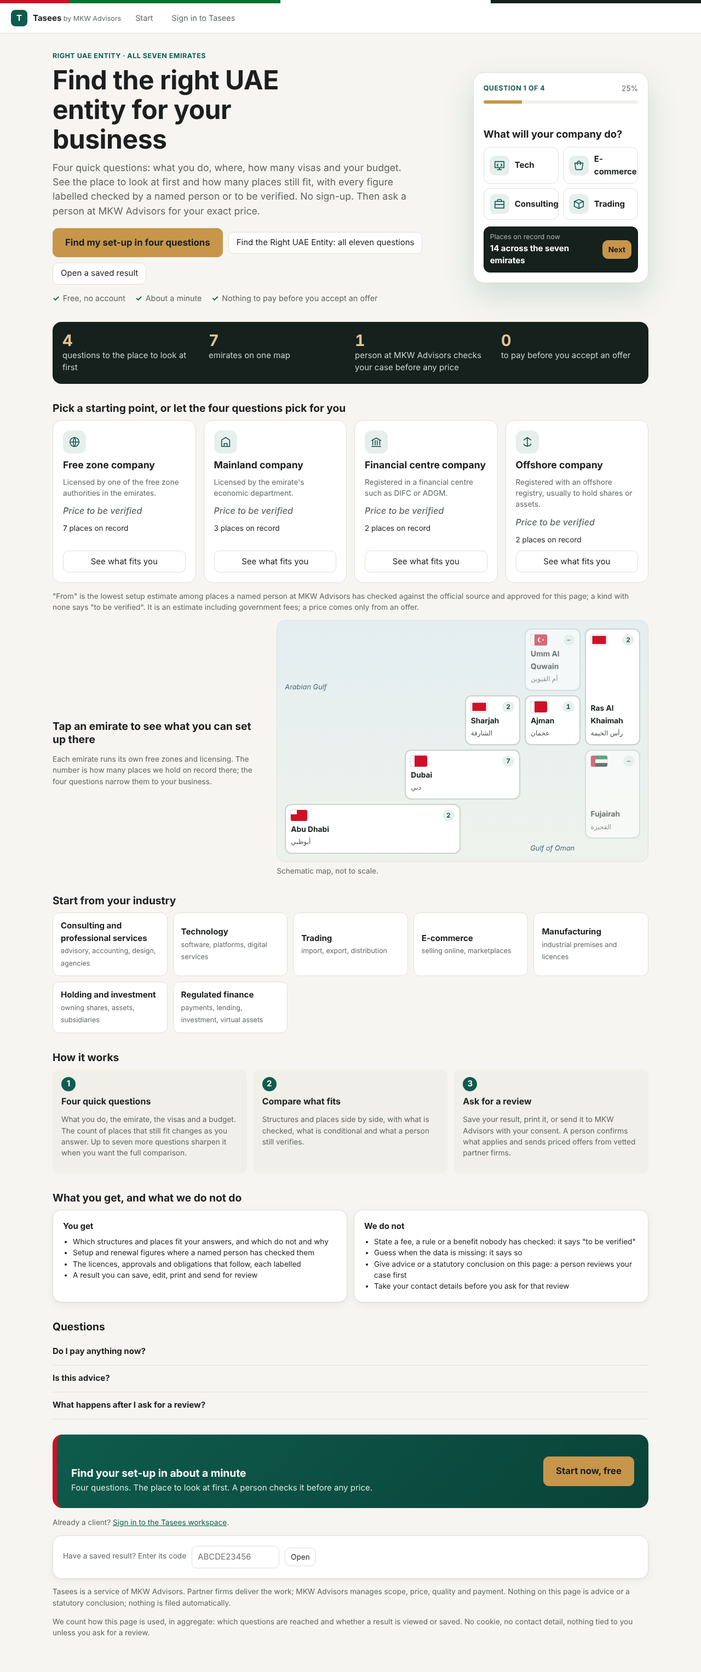
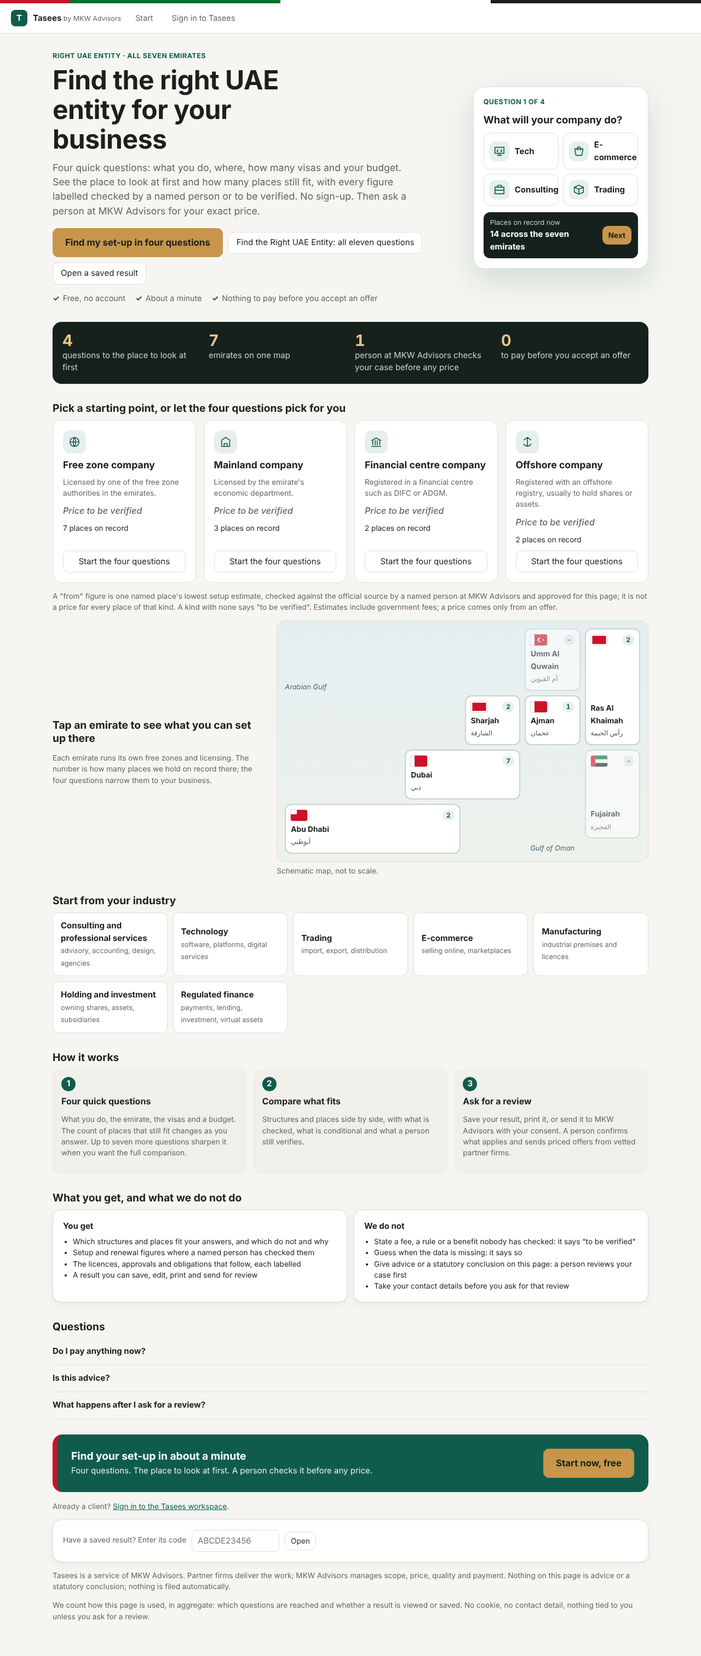
E11 review fixes: the from figure names its place and is labelled preliminary, counts are places on record, tile names match their text, Arabic, focus, tokens, priced offers wording, tests
Claude-Session: https://claude.ai/code/session_01QzEGiu7q2Qy5LpHAKh2X9v

diff --git a/apps/web/public/selector.html b/apps/web/public/selector.html
@@ -169,15 +169,14 @@
     .ticks li::before { content: "✓"; color: var(--ok); font-weight: 700; margin-inline-end: 6px; }
     .hero-try { flex: 1 1 320px; min-width: 0; margin: 0; padding: 18px; border-radius: 20px; box-shadow: 0 22px 56px rgba(14, 91, 76, 0.16); display: flex; flex-direction: column; gap: 12px; }
     .hero-try h2 { margin: 0; font-size: 1.15rem; }
-    .meter-l { height: 6px; border-radius: 999px; background: var(--surface-2); overflow: hidden; } .meter-l i { display: block; width: 25%; height: 100%; background: #c8964a; }
     .try-tiles { display: grid; grid-template-columns: repeat(2, minmax(0, 1fr)); gap: 8px; }
     .try { display: flex; align-items: center; gap: 10px; padding: 10px; border: 1.5px solid var(--line); border-radius: 12px; background: var(--surface); font: inherit; color: var(--text); cursor: pointer; text-align: start; min-height: 52px; }
     .try:hover { border-color: var(--brand); }
     .try .ico { width: 36px; height: 36px; border-radius: 10px; display: grid; place-items: center; background: var(--brand-soft); color: var(--brand); flex: none; }
-    .try-foot { display: flex; justify-content: space-between; align-items: center; gap: 10px; padding: 10px 12px; border-radius: 12px; background: #16201c; color: #fff; }
-    .try-foot small { display: block; color: #a9b6af; } .try-foot b { color: #fff; }
-    .strip { list-style: none; margin: 8px 0 28px; padding: 18px; display: grid; grid-template-columns: repeat(auto-fit, minmax(190px, 1fr)); gap: 8px 16px; border-radius: 16px; background: #16201c; color: #c9d3ce; }
-    .strip li { display: flex; flex-direction: column; } .strip b { font-size: 1.8rem; color: #e3c38f; font-variant-numeric: tabular-nums; line-height: 1.1; }
+    .try-foot { display: flex; justify-content: space-between; align-items: center; gap: 10px; padding: 10px 12px; border-radius: 12px; background: var(--ink-panel); color: var(--ink-panel-text); }
+    .try-foot small { display: block; color: var(--ink-panel-muted); } .try-foot b { color: var(--ink-panel-text); }
+    .strip { list-style: none; margin: 8px 0 28px; padding: 18px; display: grid; grid-template-columns: repeat(auto-fit, minmax(190px, 1fr)); gap: 8px 16px; border-radius: 16px; background: var(--ink-panel); color: var(--ink-panel-muted); }
+    .strip li { display: flex; flex-direction: column; } .strip b { font-size: 1.8rem; color: var(--gold-text); font-variant-numeric: tabular-nums; line-height: 1.1; }
     .packages { display: grid; grid-template-columns: repeat(auto-fit, minmax(230px, 1fr)); gap: 14px; }
     .pkg { display: flex; flex-direction: column; gap: 10px; padding: 18px; border: 1px solid var(--line); border-radius: 16px; background: var(--surface); }
     .pkg .ico { width: 42px; height: 42px; border-radius: 12px; display: grid; place-items: center; background: var(--brand-soft); color: var(--brand); }
@@ -189,10 +188,10 @@
     .home-map-copy { flex: 1 1 260px; min-width: 0; } .home-map { flex: 2 1 420px; min-width: 0; }
     .faq details { border-bottom: 1px solid var(--line); } .faq summary { cursor: pointer; min-height: 48px; display: flex; align-items: center; font-weight: 650; }
     .faq p { margin: 0 0 14px; color: var(--muted); }
-    .cta-band { margin: 28px 0 8px; padding: 26px; border-radius: 18px; display: flex; flex-wrap: wrap; gap: 16px; justify-content: space-between; align-items: center; background: linear-gradient(135deg, #0e5b4c, #0a4338); color: #fff; border-inline-start: 8px solid #ce1126; }
-    .cta-band h2 { margin: 0 0 4px; color: #fff; } .cta-band p { margin: 0; color: #d7e8e2; }
+    .cta-band { margin: 28px 0 8px; padding: 26px; border-radius: 18px; display: flex; flex-wrap: wrap; gap: 16px; justify-content: space-between; align-items: center; background: var(--brand); color: var(--brand-ink); border-inline-start: 8px solid #ce1126; }
+    .cta-band h2 { margin: 0 0 4px; color: inherit; } .cta-band p { margin: 0; color: inherit; opacity: 0.9; }
     .cta-band .gold { padding: 13px 22px; font-size: 1.05rem; }
-    .selector.wide .landing h2 { margin-top: 32px; }
+    .selector.wide .landing > h2 { margin-top: 32px; }
     @media print {
       .top, .noprint, form, .landing, .quick, .flagbar { display: none !important; }
       body { background: #fff; }
@@ -222,13 +221,12 @@
           </div>
           <ul class="ticks"><li>Free, no account</li><li>About a minute</li><li>Nothing to pay before you accept an offer</li></ul>
         </div>
-        <div class="card hero-try" aria-labelledby="try-h">
-          <div class="row between"><p class="eyebrow" style="margin:0">Question 1 of 4</p><span class="small muted">25%</span></div>
-          <div class="meter-l" aria-hidden="true"><i></i></div>
+        <section class="card hero-try" aria-labelledby="try-h">
+          <p class="eyebrow" style="margin:0">Question 1 of 4</p>
           <h2 id="try-h">What will your company do?</h2>
           <div class="try-tiles" id="try-tiles" role="group" aria-labelledby="try-h"></div>
           <div class="try-foot"><span><small>Places on record now</small><b id="home-count">…</b></span><button type="button" class="gold sm" id="try-next">Next</button></div>
-        </div>
+        </section>
       </div>
       <ul class="strip" aria-label="What the four questions give you">
         <li><b>4</b><span>questions to the place to look at first</span></li>
@@ -238,7 +236,7 @@
       </ul>
       <h2>Pick a starting point, or let the four questions pick for you</h2>
       <div class="packages" id="packages"></div>
-      <p class="small muted">"From" is the lowest setup estimate among places a named person at MKW Advisors has checked against the official source and approved for this page; a kind with none says "to be verified". It is an estimate including government fees; a price comes only from an offer.</p>
+      <p class="small muted" id="from-note">A "from" figure is one named place's lowest setup estimate, checked against the official source by a named person at MKW Advisors and approved for this page; it is not a price for every place of that kind. A kind with none says "to be verified". Estimates include government fees; a price comes only from an offer.</p>
       <div class="home-map-row">
         <div class="home-map-copy">
           <h2>Tap an emirate to see what you can set up there</h2>
@@ -271,7 +269,7 @@
       <div class="faq">
         <details><summary>Do I pay anything now?</summary><p>No. The four questions and the comparison are free. You pay a deposit only after you accept an offer from MKW Advisors.</p></details>
         <details><summary>Is this advice?</summary><p>No. It is preliminary, general information from your answers. A person at MKW Advisors reviews your case before anything is priced or filed.</p></details>
-        <details><summary>What happens after I ask for a review?</summary><p>A person checks your answers against the current rules and figures and sends priced offers from vetted partner firms. A reply usually comes within one working day.</p></details>
+        <details><summary>What happens after I ask for a review?</summary><p>A person checks your answers against the current rules and figures and sends priced offers from MKW Advisors, delivered by vetted partner firms. A reply usually comes within one working day.</p></details>
       </div>
       <div class="cta-band"><div><h2>Find your set-up in about a minute</h2><p>Four questions. The place to look at first. A person checks it before any price.</p></div><button type="button" class="gold" id="cta-start">Start now, free</button></div>
       <p class="small muted" style="margin-top:16px">Already a client? <a href="/">Sign in to the Tasees workspace</a>.</p>

diff --git a/apps/web/public/selector.js b/apps/web/public/selector.js
@@ -420,25 +420,28 @@ const PACKAGES = [
   ["offshore", "Offshore company", "Registered with an offshore registry, usually to hold shares or assets.", "M12 3v18M5 8l7-5 7 5M5 16a7 4 0 0 0 14 0"],
 ];
 async function renderHome() {
-  $("try-tiles").innerHTML = HOME_TRY.map(([id, label]) => `<button type="button" class="try" data-try="${id}" aria-label="${esc(activityLabel(id))}"><span class="ico">${icon(id)}</span><b>${esc(label)}</b></button>`).join("");
+  $("try-tiles").innerHTML = HOME_TRY.map(([id, label]) => `<button type="button" class="try" data-try="${id}" title="${esc(activityLabel(id))}"><span class="ico">${icon(id)}</span><b>${esc(label)}</b></button>`).join("");
   for (const b of $("try-tiles").querySelectorAll("[data-try]")) b.addEventListener("click", () => startQuick(b.dataset.try));
   const draw = (d) => {
-    $("home-count").textContent = d ? `${d.everywhere} across the seven emirates` : "–";
+    // A redraw when the platform answers must not drop a keyboard user's place on the page.
+    const was = document.activeElement?.closest?.("#landing") ? (document.activeElement.dataset.pkg ? `[data-pkg="${document.activeElement.dataset.pkg}"]` : document.activeElement.dataset.homeEm ? `[data-home-em="${CSS.escape(document.activeElement.dataset.homeEm)}"]` : null) : null;
+    $("home-count").textContent = d ? `${Object.values(d.onRecord).reduce((a, b) => a + b, 0)} across the seven emirates` : "–";
     $("packages").innerHTML = PACKAGES.map(([type, title, line, path]) => {
       const t = d?.byType?.[type];
       return `<article class="pkg"><span class="ico"><svg width="22" height="22" viewBox="0 0 24 24" aria-hidden="true" fill="none" stroke="currentColor" stroke-width="1.8" stroke-linecap="round" stroke-linejoin="round"><path d="${path}"/></svg></span>
-        <h3>${esc(title)}</h3><p class="small muted">${esc(line)}</p>
-        ${t?.fromFils ? `<p class="from"><span class="small muted">from</span> ${esc(aed(t.fromFils))} <span class="badge ok">checked</span></p>` : `<p class="from tbv">Price to be verified</p>`}
-        <p class="small">${t ? `${esc(t.places)} place${t.places === 1 ? "" : "s"} on record` : ""}</p>
-        <button type="button" class="btn" data-pkg="${type}">See what fits you</button></article>`;
+        <h3 id="pkg-${type}">${esc(title)}</h3><p class="small muted">${esc(line)}</p>
+        ${t?.fromFils ? `<p class="from"><span class="small muted">from</span> ${esc(aed(t.fromFils))} <span class="small muted">at</span> <span data-no-i18n>${esc(t.fromZone)}</span> <span class="badge ok">checked</span></p><p class="small muted">Preliminary estimate${d.asOf ? `, as of ${esc(d.asOf)}` : ""}. Not advice.</p>` : `<p class="from tbv">Price to be verified</p>`}
+        <p class="small">${t ? `${esc(t.onRecord)} place${t.onRecord === 1 ? "" : "s"} on record` : ""}</p>
+        <button type="button" class="btn" data-pkg="${type}" aria-describedby="pkg-${type}">Start the four questions</button></article>`;
     }).join("");
     for (const b of $("packages").querySelectorAll("[data-pkg]")) b.addEventListener("click", () => startQuick());
-    const n = (e) => (d ? d.byEmirate[e] ?? 0 : null);
+    const n = (e) => (d ? d.onRecord[e] ?? 0 : null);
     $("home-map").innerHTML = `<div class="uaemap" role="group" aria-label="The seven emirates"><span class="sea" style="grid-column:1 / 4;grid-row:1 / 3">Arabian Gulf</span><span class="sea" style="grid-column:5 / 6;grid-row:5 / 6;text-align:center">Gulf of Oman</span>
       ${MAP.map(([e, ar, , col, row]) => `<button type="button" class="em${n(e) === 0 ? " none" : ""}" data-home-em="${esc(e)}" aria-label="${esc(e)}${n(e) == null ? "" : n(e) === 0 ? ", no places on record yet" : `, ${esc(n(e))} place(s) on record`}" style="grid-column:${col};grid-row:${row}"><span class="top-row">${flagOf(e)}<span class="n">${n(e) === 0 ? "–" : esc(n(e) ?? "·")}</span></span><span><b>${esc(e)}</b><br><span class="ar" lang="ar" data-no-i18n>${ar}</span></span></button>`).join("")}</div>
       <p class="small muted" style="margin:6px 0 0">Schematic map, not to scale.</p>`;
     for (const b of $("home-map").querySelectorAll("[data-home-em]")) b.addEventListener("click", () => startQuick(undefined, { emirate: b.dataset.homeEm }));
     if (isAr()) translateTree($("landing"));
+    if (was) $("landing").querySelector(was)?.focus();
   };
   draw(null);
   try {
@@ -617,7 +620,7 @@ function quickResultHtml() {
       ${facts.length ? `<ul class="facts">${facts.map((f) => `<li>${esc(f)}</li>`).join("")}</ul>` : ""}
       ${b.conditions || b.toConfirm ? `<p class="small muted">${esc([b.conditions ? `${b.conditions} condition(s)` : "", b.toConfirm ? `${b.toConfirm} point(s) a person confirms` : ""].filter(Boolean).join(", "))} before anything is priced.</p>` : ""}
       <div class="cta noprint"><a class="btn gold" href="#review" id="quick-price">Get my exact price</a><button type="button" class="btn" id="quick-full">See the full comparison</button></div>
-      <p class="small muted" style="margin:0">No payment now. A person at MKW Advisors checks your case and sends one fixed price, usually within one working day.${b.sourceUrl ? ` <a href="${esc(b.sourceUrl)}" target="_blank" rel="noopener noreferrer">Official source</a>` : ""}</p>
+      <p class="small muted" style="margin:0">No payment now. A person at MKW Advisors checks your case and sends priced offers, usually within one working day.${b.sourceUrl ? ` <a href="${esc(b.sourceUrl)}" target="_blank" rel="noopener noreferrer">Official source</a>` : ""}</p>
     </div>
     ${d.alternatives.length ? `<h3 style="margin:8px 0 0;font-size:1.05rem">Also worth a look</h3><div class="alts">${d.alternatives.map(alt).join("")}</div>` : ""}
     ${legend}`;
@@ -691,8 +694,8 @@ function toFullQuestions() {
 function startQuick(activity, { emirate } = {}) {
   savedCode = null;
   track("assessment_started");
-  // E11: an emirate tapped on the homepage's map is the first answer to question 2; the questions still start at 1.
-  if (emirate) { quick.emirate = emirate; syncAnswers(); }
+  // E11: an emirate tapped on the homepage's map is the answer to question 2, and the questions start again at 1.
+  if (emirate) { quick.emirate = emirate; quick.step = 1; syncAnswers(); }
   show("quick");
   if (activity && QUESTIONS.activity.options.some((o) => o[0] === activity)) { quick.activity = activity; syncAnswers(); goQuick(CONFIRM_ACTIVITY.has(activity) ? 1 : 2); }
   else goQuick(quick.step || 1);

diff --git a/apps/web/public/i18n-ar.js b/apps/web/public/i18n-ar.js
@@ -174,6 +174,13 @@ export const AR = {
   ": done": ": تم",
   ": now": ": الآن",
   // E11 homepage in the canvas look (draft until the Arabic reviewer signs it off)
+  "A \"from\" figure is one named place's lowest setup estimate, checked against the official source by a named person at MKW Advisors and approved for this page; it is not a price for every place of that kind. A kind with none says \"to be verified\". Estimates include government fees; a price comes only from an offer.": "رقم «من» هو أدنى تقدير تأسيس لجهة مسمّاة، تحقق منه شخص مسمّى في MKW Advisors مقابل المصدر الرسمي ووافق على عرضه هنا؛ وليس سعراً لكل جهة من هذا النوع. النوع الذي لا رقم له يظهر «قيد التحقق». تشمل التقديرات الرسوم الحكومية؛ ولا يصدر السعر إلا في عرض.",
+  "from": "من",
+  "at": "في",
+  "Start the four questions": "ابدأ الأسئلة الأربعة",
+  "The seven emirates": "الإمارات السبع",
+  "What the four questions give you": "ما تقدّمه لك الأسئلة الأربعة",
+  "Not advice.": "ليست مشورة.",
   "Right UAE Entity · all seven emirates": "الكيان الإماراتي المناسب · الإمارات السبع",
   "Free, no account": "مجاناً، دون حساب",
   "About a minute": "نحو دقيقة",
@@ -200,7 +207,7 @@ export const AR = {
   "Is this advice?": "هل هذه مشورة؟",
   "No. It is preliminary, general information from your answers. A person at MKW Advisors reviews your case before anything is priced or filed.": "لا. إنها معلومات عامة أولية من إجاباتك. يراجع شخص في MKW Advisors حالتك قبل أي تسعير أو تقديم.",
   "What happens after I ask for a review?": "ماذا يحدث بعد أن أطلب المراجعة؟",
-  "A person checks your answers against the current rules and figures and sends priced offers from vetted partner firms. A reply usually comes within one working day.": "يراجع شخص إجاباتك وفق القواعد والأرقام الحالية ويرسل عروضاً مسعّرة من شركات شريكة معتمدة. يصل الرد عادةً خلال يوم عمل واحد.",
+  "A person checks your answers against the current rules and figures and sends priced offers from MKW Advisors, delivered by vetted partner firms. A reply usually comes within one working day.": "يراجع شخص إجاباتك وفق القواعد والأرقام الحالية ويرسل عروضاً مسعّرة من MKW Advisors تنفذها شركات شريكة معتمدة. يصل الرد عادةً خلال يوم عمل واحد.",
   "Find your set-up in about a minute": "اعثر على التأسيس المناسب في نحو دقيقة",
   "Four questions. The place to look at first. A person checks it before any price.": "أربعة أسئلة. الجهة التي تبدأ بها. يراجعها شخص قبل أي سعر.",
   "Start now, free": "ابدأ الآن مجاناً",
@@ -208,7 +215,7 @@ export const AR = {
   "Finding your match…": "نبحث عن الأنسب لك…",
   "Your match could not be loaded": "تعذّر تحميل الأنسب لك",
   "Try again": "حاول مرة أخرى",
-  "No payment now. A person at MKW Advisors checks your case and sends one fixed price, usually within one working day.": "لا دفع الآن. يراجع شخص في MKW Advisors حالتك ويرسل سعراً ثابتاً واحداً، عادةً خلال يوم عمل واحد.",
+  "No payment now. A person at MKW Advisors checks your case and sends priced offers, usually within one working day.": "لا دفع الآن. يراجع شخص في MKW Advisors حالتك ويرسل عروضاً مسعّرة، عادةً خلال يوم عمل واحد.",
   "From": "من",
   "No places on record in this emirate yet": "لا توجد جهات مسجلة في هذه الإمارة بعد",
   "Schematic map, not to scale. A dash: we hold no places on record there yet.": "خريطة توضيحية، ليست بمقياس رسم. الشرطة تعني أنه لا توجد لدينا جهات مسجلة هناك بعد.",
@@ -774,6 +781,9 @@ export const AR = {
 
 /** Patterns for strings composed at render time. Each maps a regex over the English text to Arabic. */
 export const AR_PATTERNS = [
+  [/^Preliminary estimate, as of (\S+)\.$/, (m) => `تقدير أولي، حتى ${m[1]}.`],
+  [/^(.+), (\d+) place\(s\) on record$/, (m) => `${m[1]}، ${m[2]} جهة مسجلة`],
+  [/^(.+), no places on record yet$/, (m) => `${m[1]}، لا توجد جهات مسجلة بعد`],
   [/^(\d+) places? on record$/, (m) => `${m[1]} جهة مسجلة`],
   [/^(\d+) across the seven emirates$/, (m) => `${m[1]} في الإمارات السبع`],
   // E8 quick match sentences with numbers; draft

diff --git a/packages/core/test/quick.test.ts b/packages/core/test/quick.test.ts
@@ -65,14 +65,20 @@ describe("the quick match (E8)", () => {
 
   it("the package figures count the open places per kind and quote only an approved place's lowest estimate (E11)", () => {
     const none = quickMatch({}, rules, zones, NONE, NONE, AS_OF);
-    expect(none.byType).toEqual({ free_zone: { places: 3, fromFils: null }, mainland: { places: 1, fromFils: null }, financial: { places: 0, fromFils: null }, offshore: { places: 1, fromFils: null } });
+    expect(none.byType).toEqual({ free_zone: { places: 3, onRecord: 3, fromFils: null, fromZone: null }, mainland: { places: 1, onRecord: 1, fromFils: null, fromZone: null }, financial: { places: 0, onRecord: 0, fromFils: null, fromZone: null }, offshore: { places: 1, onRecord: 1, fromFils: null, fromZone: null } });
     // Only IFZA approved: the free zone card quotes IFZA's 12,000 although SHAMS (6,000) is lower, because SHAMS is not approved.
     const ifza = quickMatch({}, rules, zones, ALL_RULES, new Set(["IFZA"]), AS_OF);
-    expect(ifza.byType.free_zone).toEqual({ places: 3, fromFils: 1_200_000 });
+    expect(ifza.byType.free_zone).toEqual({ places: 3, onRecord: 3, fromFils: 1_200_000, fromZone: "IFZA" });
     expect(ifza.byType.mainland.fromFils).toBeNull();
     const all = quickMatch({ emirate: "Dubai" }, rules, zones, ALL_RULES, ALL_PLACES, AS_OF);
-    expect(all.byType.free_zone).toEqual({ places: 1, fromFils: 1_200_000 });
-    expect(all.byType.mainland).toEqual({ places: 1, fromFils: 2_200_000 });
+    expect(all.byType.free_zone).toEqual({ places: 1, onRecord: 1, fromFils: 1_200_000, fromZone: "IFZA" });
+    expect(all.byType.mainland).toEqual({ places: 1, onRecord: 1, fromFils: 2_200_000, fromZone: "Dubai DET mainland" });
+    // An approved place an approved rule excludes gives no figure; the kind is still on record.
+    const tight = quickMatch({ activity: "tech", visas: 1, budget: "up_to_15k" }, rules, zones, ALL_RULES, ALL_PLACES, AS_OF);
+    expect(tight.byType.mainland).toEqual({ places: 0, onRecord: 1, fromFils: null, fromZone: null });
+    // An approved place with no estimate (0) is never quoted.
+    const free = [...zones.filter((x) => x.name !== "SHAMS"), z("SHAMS", "Sharjah", "free_zone", 1, 0, 0, ["consulting"])];
+    expect(quickMatch({}, rules, free, ALL_RULES, new Set(free.map((x) => x.name)), AS_OF).byType.free_zone.fromZone).toBe("RAKEZ");
   });
 
   it("an emirate with no place on record says so, rather than that nothing fits", () => {

diff --git a/packages/core/src/quick.ts b/packages/core/src/quick.ts
@@ -74,7 +74,7 @@ export interface QuickMatch {
    * emirate when one is chosen) and the lowest setup estimate among them that a named person approved for public
    * display (null: none approved, shown as "to be verified").
    */
-  byType: Record<Zone["type"], { places: number; fromFils: number | null }>;
+  byType: Record<Zone["type"], { places: number; onRecord: number; fromFils: number | null; fromZone: string | null }>;
 }
 
 export const QUICK_TYPES: Array<Zone["type"]> = ["free_zone", "mainland", "financial", "offshore"];
@@ -145,8 +145,10 @@ export function quickMatch(q: QuickAnswers, rules: ScopingRule[], zones: Zone[],
     byType: Object.fromEntries(
       QUICK_TYPES.map((t) => {
         const ofType = here(open).filter((p) => p.type === t);
-        const checked = ofType.filter((p) => approvedPlaces.has(p.zone) && p.costMinFils > 0).map((p) => p.costMinFils);
-        return [t, { places: ofType.length, fromFils: checked.length ? Math.min(...checked) : null }];
+        // The figure is one approved place's, named with it: never a claim about the whole kind.
+        const cheapest = ofType.filter((p) => approvedPlaces.has(p.zone) && p.costMinFils > 0).sort((x, y) => x.costMinFils - y.costMinFils || x.zone.localeCompare(y.zone))[0];
+        const onRecord = zones.filter((z) => z.type === t && (!q.emirate || z.emirate === q.emirate)).length;
+        return [t, { places: ofType.length, onRecord, fromFils: cheapest?.costMinFils ?? null, fromZone: cheapest?.zone ?? null }];
       }),
     ) as QuickMatch["byType"],
   };

diff --git a/apps/api/test/quick-match.test.ts b/apps/api/test/quick-match.test.ts
@@ -62,7 +62,7 @@ describe("the quick match (E8)", () => {
     const ifza = [open.best, ...open.alternatives].find((p: any) => p.zone === "IFZA");
     expect(ifza).toMatchObject({ toBeVerified: false, figures: { costMinFils: 1_600_000, costMaxFils: 2_000_000 }, sourceUrl: "https://ifza.com/" });
     expect(open.approved.places).toBe(1);
-    expect(open.byType.free_zone.fromFils).toBe(1_600_000); // E11: the package card quotes only the approved IFZA
+    expect(open.byType.free_zone).toMatchObject({ fromFils: 1_600_000, fromZone: "IFZA" }); // E11: only the approved IFZA, named
     // Under 15,000 IFZA fails the budget, but the rule saying so is not approved: it stays open, to be verified.
     const low = (await quick({ ...tech, budget: "up_to_15k" })).body;
     expect(low.options).toBe(open.options);

diff --git a/outcomes/E11-homepage-look.md b/outcomes/E11-homepage-look.md
@@ -54,9 +54,29 @@ Every figure comes from the platform, and every price from a named person's appr
 Evidence recorded on 3 Nov 2026 (`docs/evidence/E11/`):
 
 - `pnpm test`: core 140 passed; api 359 passed, 1 skipped (`tests-pglite.txt`). `pnpm typecheck` clean.
-- `scripts/smoke.mjs` against a fresh demo: 307 checks OK, 0 failed (`smoke-log.txt`; 303 after E10).
-- axe on 55 screens, 0 violations, including the homepage at 1280 and 390 px (`axe.json`).
+- `scripts/smoke.mjs` against a fresh demo: 309 checks OK, 0 failed (`smoke-log.txt`; 303 after E10).
+- axe on 56 screens, 0 violations, including the homepage at 1280 and 390 px and with a checked figure (`axe.json`).
 - Screenshots: `95-public-home.png` (1280 px), `94-mobile-public-home.png` (390 px).
+
+## Independent review
+
+No blocking finding. Applied:
+- the "from" figure names its place and carries "preliminary estimate, as of" the rules' date, so it is never a claim
+  about a whole kind;
+- the counts read places on record (`onRecord`);
+- the try tiles' accessible names are their visible text;
+- the missing Arabic strings and patterns are added;
+- the heading margins on the try card and the call-to-action band are fixed;
+- the package buttons now read "Start the four questions" and are described by their card's heading;
+- the try card is a section;
+- a map tap starts the questions at 1;
+- focus is kept when the cards and map redraw;
+- colours come from tokens;
+- the quick result's "one fixed price" now reads "priced offers";
+- the FAQ says the offers come from MKW Advisors;
+- core tests cover an approved place with no estimate and an approved place excluded by an approved rule;
+- the phone homepage is checked after the data arrives;
+- axe runs on the homepage with a checked figure.
 
 ## Dependencies
 

diff --git a/docs/DECISIONS.md b/docs/DECISIONS.md
@@ -1025,8 +1025,10 @@ canvas of 3 Nov 2026 and its review round.)
   promises, a card per kind of place, the emirates map, the industries, how it works, what it does and does not
   do, three questions, and a closing call to action. The quick match is the main action; the eleven questions stay.
 - A package card shows a "from" figure only when a named person approved at least one place of that kind for public
-  display, and then quotes the lowest approved estimate (`byType` in the quick match, D80), labelled checked; else
-  "Price to be verified". The canvas's prices were design figures and are not used. Counts are places on record.
+  display, and then quotes that place by name ("from AED 12,000 at IFZA", `byType` in the quick match, D80), labelled
+  checked and "preliminary estimate, as of" the rules' date: the approval is of one place's figures, never a claim
+  about the whole kind (independent review). Else "Price to be verified". The canvas's prices were design figures and
+  are not used. The counts on the cards and the map are places on record (`onRecord`), not places still open.
 - The cards describe each kind by what licenses or registers it, not by what it allows (a benefit is a rule's
   conclusion and needs an approved statement); approved guidance notes remain the place for that.
 - The strip's promises are the platform's own ("4 questions", "7 emirates on one map", "1 person checks your case
